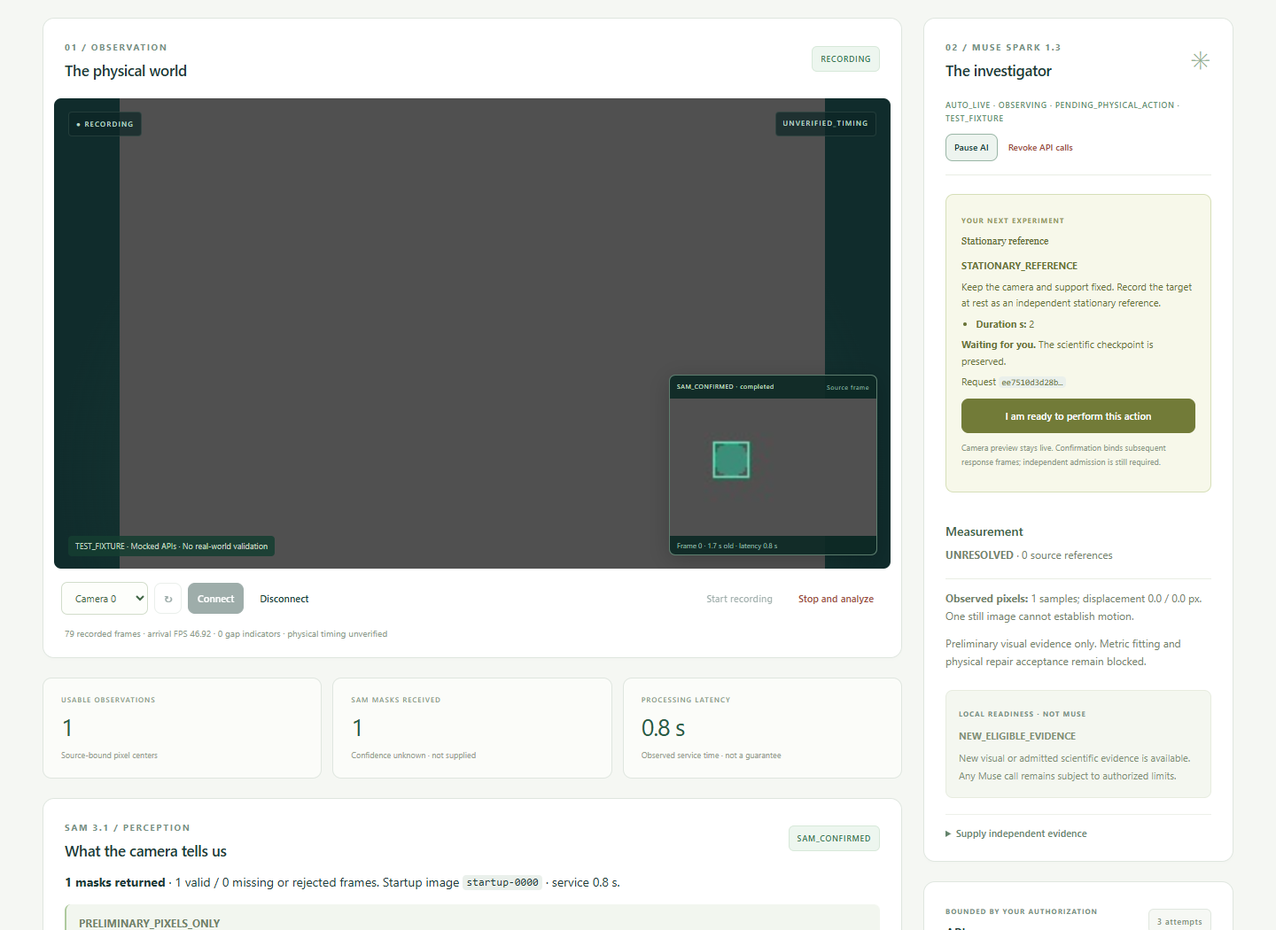
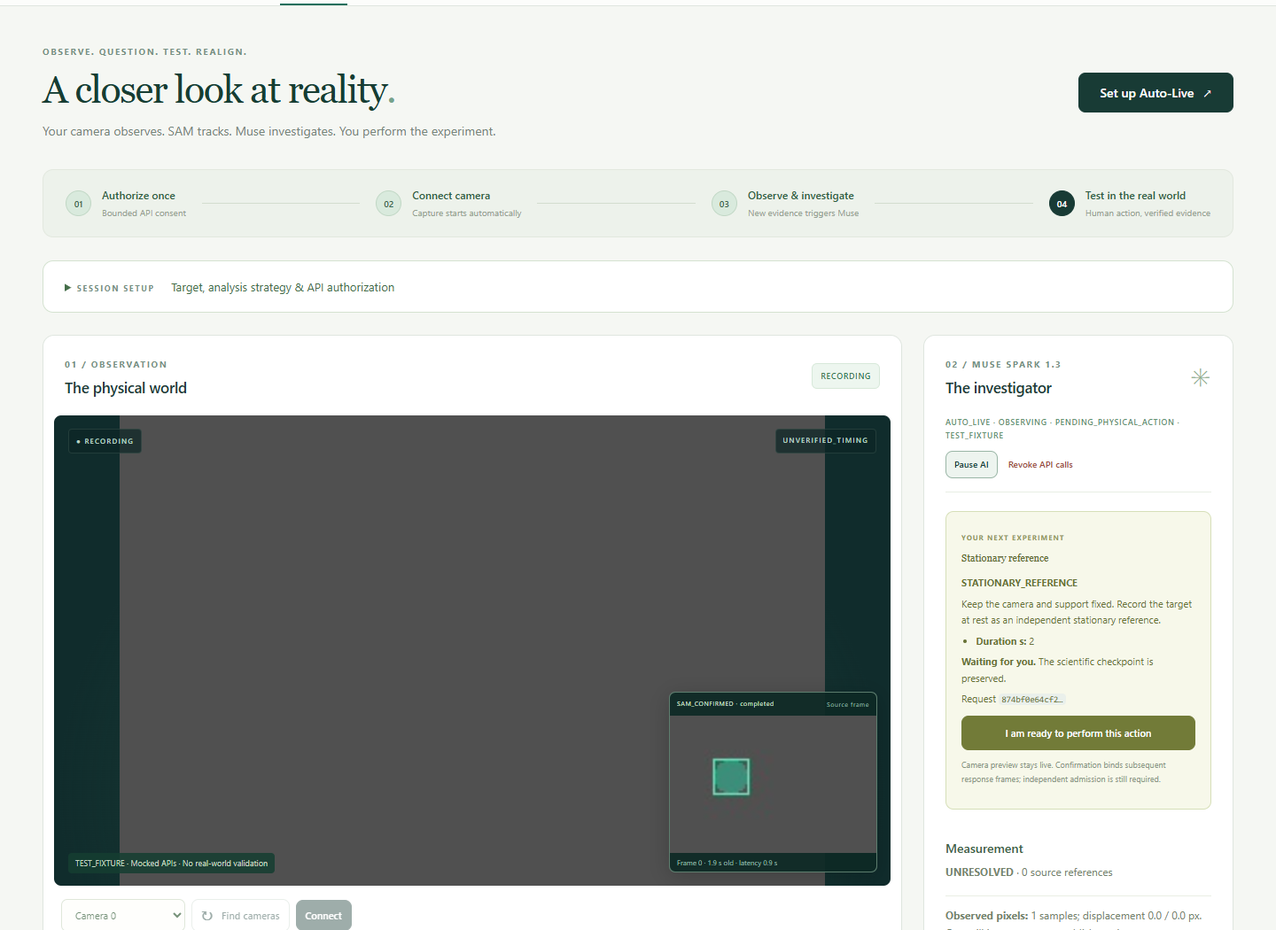
feat: expose camera discovery with search feedback and detected inputs

diff --git a/src/realign/product/static/live_lab.js b/src/realign/product/static/live_lab.js
@@ -5,7 +5,7 @@
   const human=value=>String(value??'Unknown').replaceAll('_',' ').toLowerCase().replace(/^\w/,c=>c.toUpperCase());
   const short=value=>value?String(value).slice(0,12)+'…':'Unavailable';
   const sec=value=>Number.isFinite(value)?value.toFixed(1)+' s':'Unknown';
-  let token=null,busy=false,polling=false,connected=false,previewTimer=null,lastLive=null,lastOverlay=null,lastScience=null,lastHistory=null,lastEvents=null,pendingRequest=null;
+  let token=null,busy=false,polling=false,connected=false,scanning=false,hasScanned=false,previewTimer=null,lastLive=null,lastScan=null,lastOverlay=null,lastScience=null,lastHistory=null,lastEvents=null,pendingRequest=null;
   function error(message){$('error').hidden=!message;md('error',message||'');}
   async function api(path,body){
     const response=await fetch(path,{cache:'no-store',...(body!==undefined?{method:'POST',headers:{'Content-Type':'application/json','X-Live-Lab-Token':token},body:JSON.stringify(body)}:{})});
@@ -24,10 +24,11 @@
       md('camera-state',s.state+(s.error?` · ${s.error}`:'')+(s.camera_stalled?' · CAMERA_STALLED':''));$('camera-state').classList.toggle('live',s.state==='RECORDING');
       const c=s.capture;md('telemetry',`${c.frames.toLocaleString()} recorded frames · arrival FPS ${c.effective_fps?.toFixed(2)??'unknown'} · ${c.gap_indicators} gap indicators · physical timing unverified`);
       md('capture-indicator',s.state==='RECORDING'?'● RECORDING':connected?'● LIVE PREVIEW':'CAMERA OFFLINE');
-      $('start').disabled=!connected||s.state==='RECORDING'||s.camera_stalled;$('stop').disabled=s.state!=='RECORDING';$('connect').disabled=connected;$('scan').disabled=connected;$('disconnect').disabled=!s.camera;$('import').disabled=s.state==='RECORDING';
+      $('start').disabled=!connected||s.state==='RECORDING'||s.camera_stalled;$('stop').disabled=s.state!=='RECORDING';$('connect').disabled=connected||scanning||(hasScanned&&!$('devices').options.length);$('scan').disabled=connected||scanning;$('devices').disabled=connected||scanning||(hasScanned&&!$('devices').options.length);$('disconnect').disabled=!s.camera;$('import').disabled=s.state==='RECORDING';
       $('preview').hidden=!connected;$('preview-empty').hidden=connected;
       if(connected&&!previewTimer)nextPreview();if(!connected&&previewTimer){clearTimeout(previewTimer);previewTimer=null;}
-      renderInvestigation(s.investigation,s.state);
+      lastScan=s.device_scan;renderInvestigation(s.investigation,s.state);
+      if($('raw-audit').parentElement.open)$('raw-audit').textContent=JSON.stringify({investigation:lastLive,camera_discovery:lastScan},null,2);
     }catch(e){error(`Controller unavailable: ${e.message}`);}finally{polling=false;}
   }
   function nextPreview(){if(!connected){previewTimer=null;return;}$('preview').src='/preview.jpg?t='+Date.now();previewTimer=setTimeout(nextPreview,100);}
@@ -71,7 +72,6 @@
     renderScience(sc);renderAction(live.pending_action,active&&!paused);renderHistory(live);
     drawTrajectory(live.historical_trajectory,sc.trajectory_comparison);
     md('audit-label',`Hash-linked · ${short(live.audit_head)}`);
-    if($('raw-audit').parentElement.open)$('raw-audit').textContent=JSON.stringify(live,null,2);
   }
   function renderScience(sc){
     const sig=JSON.stringify([sc.hypotheses,sc.tool_results,sc.decision,sc.state,sc.visual_observation]);if(sig===lastScience)return;lastScience=sig;
@@ -112,7 +112,17 @@
     for(const r of data.recordings){const card=el('article',undefined,'clip');card.append(el('h3',r.id),el('p',`**${r.status}** · ${r.state||'Unavailable'}`));if(!r.media){root.append(card);continue;}const m=r.media;card.append(el('p',`${m.status} · ${m.decoded_frames??'?'} decoded frames · ${m.width??'?'} × ${m.height??'?'} · variable frame rate ${m.variable_frame_rate??'unknown'}`),el('p','SHA-256: '+r.video_sha256,'hash'),el('p',`Source ${r.provenance.kind} · SAM ${r.sam.status} · calibration ${r.calibration_grade} · physical timing unverified`));const frames=el('div',undefined,'frames');for(const file of m.review_frames||[]){const img=el('img');img.src=`/files/${r.id}/${file}`;img.alt='Clean source review: '+file;frames.append(img);}card.append(frames);if(m.status==='ADMITTED'){const video=el('video');video.controls=true;video.preload='none';video.src=`/files/${r.id}/recording.mp4`;video.setAttribute('aria-label','Saved recording '+r.id);card.append(video);}const list=el('ul');for(const b of r.blockers)list.append(el('li',b));card.append(list);for(const [file,label] of [['recording.mp4','Download recording'],['report.json','Source and PTS report'],['phone_manifest.draft.json','Phone manifest draft']]){const a=el('a',label);a.href=`/files/${r.id}/${file}`;a.download=file;card.append(a);}root.append(card);}
   }
   $('open-authorization').onclick=()=>{$('authorization').open=!$('authorization').open;if($('authorization').open)$('authorization').scrollIntoView({behavior:'smooth',block:'start'});};
-  $('scan').onclick=async()=>{const r=await action('/api/scan');if(!r)return;$('devices').replaceChildren();for(const d of r.devices){const o=el('option',`${d.label} · ${d.backend}`);o.value=d.index;$('devices').append(o);}if(!r.devices.length)error('No camera found. Check its connection and Windows permissions, or import the original MP4.');};
+  $('scan').onclick=async()=>{
+    if(busy)return error('A local control is still finishing. Retry Find cameras when it completes.');
+    scanning=true;$('scan').disabled=true;$('connect').disabled=true;$('devices').disabled=true;$('scan').setAttribute('aria-busy','true');md('scan-label','Searching…');
+    md('camera-discovery','Searching camera inputs 0–7. This may take a few seconds; no video is uploaded.');
+    try{
+      const r=await action('/api/scan',{maximum:8});if(!r){md('camera-discovery','Camera search could not complete. Review the local error above, then try Find cameras again.');return;}
+      hasScanned=true;$('devices').replaceChildren();
+      for(const d of r.devices){const o=el('option',`Camera ${d.index} · ${d.backend}`);o.value=d.index;$('devices').append(o);}
+      md('camera-discovery',r.devices.length?`**${r.devices.length} camera${r.devices.length===1?'':'s'} found.** Select a device, then Connect to identify your phone in the preview. ${r.scan?.probe_errors?.length?'Some inputs could not be probed; their safe codes are in the audit.':''}`:'**No cameras found on inputs 0–7.** Check Windows camera permissions, connect your phone through its webcam app/USB, close other apps using it, then try Find cameras again. You can also import the original MP4.');
+    }finally{scanning=false;$('scan').removeAttribute('aria-busy');md('scan-label','Find cameras');await status();}
+  };
   $('connect').onclick=()=>action('/api/connect',{index:Number($('devices').value)});$('disconnect').onclick=()=>action('/api/disconnect');$('start').onclick=()=>action('/api/start',metadata());$('stop').onclick=()=>action('/api/stop');$('import').onclick=()=>action('/api/import',{...metadata(),path:$('path').value});
   $('ai-start').onclick=async()=>{
     const r=await action('/api/auto-live/authorize',{authorization:{consent:$('ai-consent').checked,standard_tier_confirmed:$('ai-consent').checked,sam_requests:Number($('sam-cap').value),muse_requests:Number($('muse-cap').value),ceiling_usd:$('spend-cap').value,sam_reserve_usd:$('sam-reserve').value,muse_reserve_usd:$('muse-reserve').value},windowing:{window_s:Number($('window-seconds').value),overlap_s:Number($('overlap-seconds').value),analysis_interval_s:Number($('analysis-interval').value),processing_width:Number($('processing-width').value),target_prompt:$('target-prompt').value,target_confirmed:$('target-confirmed').checked},metadata:{operator:$('operator').value,rig_id:$('rig').value}});
@@ -121,7 +131,7 @@
   $('ai-stop').onclick=()=>priority('/api/ai/stop');$('ai-pause').onclick=()=>priority('/api/ai/pause');$('ai-resume').onclick=()=>priority('/api/ai/resume');
   $('reselect-target').onclick=async()=>{const consent=$('revision-consent').checked;const r=await action('/api/ai/reselect',{target_prompt:$('revised-prompt').value,target_confirmed:consent,consent});if(r)$('revision-consent').checked=false;};
   $('confirm-action').onclick=()=>action('/api/ai/confirm-action',{request_id:pendingRequest});$('admit-evidence').onclick=()=>action('/api/ai/admit',{manifest:$('approved-manifest').value});$('refresh').onclick=()=>recordings().catch(e=>error(e.message));
-  $('raw-audit').parentElement.addEventListener('toggle',()=>{if($('raw-audit').parentElement.open&&lastLive)$('raw-audit').textContent=JSON.stringify(lastLive,null,2);});
+  $('raw-audit').parentElement.addEventListener('toggle',()=>{if($('raw-audit').parentElement.open)$('raw-audit').textContent=JSON.stringify({investigation:lastLive,camera_discovery:lastScan},null,2);});
   $('sam-overlay').onerror=()=>{lastOverlay=null;};
   status();recordings().catch(e=>error(e.message));setInterval(status,600);
 })();

diff --git a/src/realign/product/static/live_lab.html b/src/realign/product/static/live_lab.html
@@ -12,7 +12,7 @@
 <div><div class="field-grid"><label>SAM attempt cap<input id="sam-cap" type="number" min="1" max="32" value="8"></label><label>Muse attempt cap<input id="muse-cap" type="number" min="1" max="32" value="8"></label><label>Estimated ceiling · USD<input id="spend-cap" type="number" min="0.01" max="100" step="0.01" placeholder="Set your limit"></label><label>Reserve / SAM attempt · USD<input id="sam-reserve" type="number" min="0.001" max="100" step="0.001" placeholder="Owner-reviewed estimate"></label><label>Reserve / Muse attempt · USD<input id="muse-reserve" type="number" min="0.001" max="100" step="0.001" placeholder="Owner-reviewed estimate"></label></div><p class="fine">Uploads, segmentation, reasoning and retries each consume a reserved attempt. Owner-supplied reserves are estimates, not verified Meta prices. Actual billing is unknown; in-flight calls may bill after revocation. Keys remain on the backend.</p><label class="check"><input id="ai-consent" type="checkbox">I authorize these uploads and limits, and confirm my Meta account uses the Standard tier.</label><button id="ai-start" class="primary">Authorize Auto-Live</button></div></div></div></details>
 <div id="workspace" class="workspace" tabindex="-1"><div class="observation-column"><section class="panel camera-panel"><div class="panel-head"><div><span class="section-kicker">01 / OBSERVATION</span><h2>The physical world</h2></div><span id="camera-state" class="pill" role="status">IDLE</span></div>
 <div id="camera-stage" class="camera-stage"><div id="preview-empty" class="preview-empty"><svg viewBox="0 0 240 150" fill="none" aria-hidden="true"><path d="M40 25h160M120 25v80" stroke="currentColor" stroke-width="1.5"/><path d="M120 25 165 95" stroke="#6daf9c" stroke-width="2"/><path d="M75 95a82 82 0 0 0 90 0" stroke="currentColor" stroke-dasharray="3 5"/><circle cx="165" cy="95" r="12" fill="#6daf9c"/><circle cx="120" cy="25" r="3" fill="currentColor"/></svg><h3>Every investigation starts with an observation.</h3><p>Authorize Auto-Live, then connect your camera.<br>Offline preview and manual recording are also available.</p></div><img id="preview" alt="Current camera preview" hidden><div class="stage-top"><span id="capture-indicator" class="stage-badge">CAMERA OFFLINE</span><span class="stage-badge">UNVERIFIED_TIMING</span></div><span id="fixture-label" class="fixture-label" hidden>TEST_FIXTURE · Mocked APIs · No real-world validation</span><div id="sam-preview" class="sam-preview" hidden><div class="sam-preview-header"><span id="tracking-label">SAM_PENDING</span><span>Source frame</span></div><img id="sam-overlay" alt="SAM mask and bounding box on its exact, delayed source frame"><p id="overlay-age"></p></div></div>
-<div class="camera-controls"><div class="device-controls"><select id="devices" aria-label="Camera device"><option value="0">Camera 0</option></select><button id="scan" class="icon-button" aria-label="Find cameras" title="Find cameras">↻</button><button id="connect" class="primary">Connect</button><button id="disconnect" class="quiet" disabled>Disconnect</button></div><div class="capture-controls"><button id="start" class="quiet" disabled>Start recording</button><button id="stop" class="quiet danger" disabled>Stop and analyze</button></div></div><p id="telemetry" class="camera-telemetry">No camera connected · No requests dispatched</p></section>
+<div class="camera-controls"><div class="device-controls"><select id="devices" aria-label="Camera device"><option value="0">Camera 0</option></select><button id="scan" class="find-cameras" title="Search available camera inputs"><span aria-hidden="true">↻</span><span id="scan-label">Find cameras</span></button><button id="connect" class="primary">Connect</button><button id="disconnect" class="quiet" disabled>Disconnect</button></div><div class="capture-controls"><button id="start" class="quiet" disabled>Start recording</button><button id="stop" class="quiet danger" disabled>Stop and analyze</button></div></div><p id="camera-discovery" class="camera-discovery" role="status">Use Find cameras to search available inputs, then identify your phone in the preview.</p><p id="telemetry" class="camera-telemetry">No camera connected · No requests dispatched</p></section>
 <div class="metric-row"><div class="metric"><span>USABLE OBSERVATIONS</span><strong id="metric-points">—</strong><small>Source-bound pixel centers</small></div><div class="metric"><span>SAM MASKS RECEIVED</span><strong id="metric-masks">—</strong><small id="metric-confidence">Confidence unknown</small></div><div class="metric"><span>PROCESSING LATENCY</span><strong id="metric-lag">—</strong><small>Observed service time · not a guarantee</small></div></div>
 <section class="panel perception-panel"><div class="panel-head"><div><span class="section-kicker">SAM 3.1 / PERCEPTION</span><h2>What the camera tells us</h2></div><span id="sam-status" class="pill">SAM_PENDING</span></div><div class="panel-body"><p id="ai-detection">SAM NOT_RUN · Waiting for authorization and a source frame.</p><p id="detection-guidance" class="guidance">Masks are measurements of pixels. Physical conclusions need independently verified evidence.</p><p id="target-identity" class="fine"></p><div id="target-revision" hidden><label>Revised target description<input id="revised-prompt" maxlength="80"></label><label class="check"><input id="revision-consent" type="checkbox">I confirm the revised target and authorize additional requests within this session's remaining limits.</label><button id="reselect-target">Authorize revised target</button></div><details class="inline-details"><summary>Processing strategy & QA details</summary><p id="preprocessing-status"></p><p id="ai-queues"></p><p id="processed-label"></p><img id="processed" alt="Latest completed SAM source frame" hidden></details></div></section>
 <section class="panel trajectory-panel"><div class="panel-head"><div><span class="section-kicker">EXPLORATION / PIXELS</span><h2>Follow the evidence</h2></div><span class="legend"><i></i> SAM observations</span></div><div class="chart-wrap"><canvas id="trajectory" width="640" height="300" aria-label="Historical preliminary SAM pixel trajectory"></canvas><p id="trajectory-empty">Source-bound points will appear after valid SAM masks arrive.</p></div><p id="simulation-status" class="panel-note">Model comparison awaits independent timing, geometry and physical admission.</p></section></div>

diff --git a/src/realign/product/static/live_lab.css b/src/realign/product/static/live_lab.css
@@ -4,3 +4,5 @@
 @media(prefers-reduced-motion:reduce){*{scroll-behavior:auto!important;transition:none!important}}
 
 .fixture-label{position:absolute;bottom:14px;left:16px;max-width:50%;font-size:9px;line-height:1.5;color:#c2d6c0;background:#153d31dd;padding:5px 8px;border-radius:4px;pointer-events:none}
+
+.device-controls{flex-wrap:wrap;min-width:0}.camera-discovery{font-size:11px;line-height:1.7;color:#70856d;margin:8px 24px 0}.find-cameras{white-space:nowrap}.find-cameras>span:first-child{font-size:15px}.find-cameras[aria-busy=true]>span:first-child{animation:camera-search 1.2s linear infinite}@keyframes camera-search{to{transform:rotate(360deg)}}@media(max-width:580px){.camera-discovery{font-size:10px;margin-left:17px;margin-right:17px}.device-controls{flex-basis:100%}.camera-controls .find-cameras{font-size:10px}}@media(prefers-reduced-motion:reduce){.find-cameras[aria-busy=true]>span:first-child{animation:none}}

diff --git a/src/realign/physical/live_lab.py b/src/realign/physical/live_lab.py
@@ -243,6 +243,7 @@ class CaptureController:
         self.auto_capture = False
         self.auto_clips = 0
         self.auto_metadata = {}
+        self.device_scan = None
 
     def move(self, state):
         self.state = state
@@ -255,6 +256,7 @@ class CaptureController:
                     'error': self.error, 'latest': deepcopy(self.latest),
                     'capture': interval_summary(self.arrivals), 'preview_age_s': age,
                     'camera_stalled': self.camera is not None and age is not None and age > 3,
+                    'device_scan':deepcopy(self.device_scan),
                     'capture_time_scale_verified': False,
                     'new_meta_calls': self.live.ledger.snapshot()['total_requests'] if self.live else 0,
                     'investigation': self.live.snapshot() if self.live else None}
@@ -287,18 +289,27 @@ class CaptureController:
             self.live = (self.live_factory or LiveInvestigation)(self.library.root, policy, config=settings)
             return self.live.snapshot()
 
-    def enumerate_devices(self, maximum=6):
-        if not 1 <= maximum <= 16: raise ValueError('device scan limit must be 1..16')
+    def enumerate_devices(self, maximum=8):
+        if type(maximum) is not int or not 1 <= maximum <= 16: raise ValueError('device scan limit must be 1..16')
         with self.lock:
             if self.camera is not None: raise ValueError('Disconnect before scanning camera devices')
-            devices = []
+            devices,errors = [],[]
             for index in range(maximum):
-                camera = self.camera_factory(index, self.cv.CAP_DSHOW if os.name == 'nt' else self.cv.CAP_ANY)
+                camera = None
                 try:
+                    camera = self.camera_factory(index, self.cv.CAP_DSHOW if os.name == 'nt' else self.cv.CAP_ANY)
                     if camera.isOpened():
                         devices.append({'index': index, 'backend': camera.getBackendName(),
                                         'label': f'Camera {index} (operator must identify phone)'})
-                finally: camera.release()
+                except Exception as exc:
+                    errors.append({'index':index,'code':'DEVICE_PROBE_FAILED','error_type':type(exc).__name__})
+                finally:
+                    if camera is not None:
+                        try: camera.release()
+                        except Exception: errors.append({'index':index,'code':'DEVICE_RELEASE_FAILED'})
+            self.device_scan = {'status':'COMPLETED','checked_indices':list(range(maximum)),
+                'detected_count':len(devices),'devices':deepcopy(devices),'probe_errors':errors,
+                'identity':'OPERATOR_MUST_IDENTIFY_PHONE_IN_PREVIEW','new_meta_requests':0}
             return devices
 
     def connect(self, index, *, threaded=True):

diff --git a/tests/test_live_lab_browser.py b/tests/test_live_lab_browser.py
@@ -325,3 +325,33 @@ $$\theta(t) = \sin(t)$$
         assert page.evaluate('document.documentElement.scrollWidth<=innerWidth')
         assert not errors
         page.close()
+
+
+def test_find_cameras_shows_search_results_and_no_device_guidance(lab_ui):
+    from playwright.sync_api import expect
+    browser,controller,urls,tmp=lab_ui
+    available={2,5}
+    class Probe(InjectedCamera):
+        def __init__(self,index):self.index=index
+        def isOpened(self):return self.index in available
+    controller.camera_factory=lambda index,*args:Probe(index)
+    original=controller.enumerate_devices
+    def slower(maximum=8):time.sleep(.3);return original(maximum)
+    controller.enumerate_devices=slower
+    page=browser.new_page(viewport={'width':390,'height':844});page.goto(urls[0])
+    button=page.get_by_role('button',name='Find cameras',exact=True)
+    expect(button).to_be_visible();button.click()
+    expect(page.locator('#camera-discovery')).to_contain_text('Searching camera inputs')
+    expect(page.locator('#camera-discovery')).to_contain_text('2 cameras found')
+    assert page.locator('#devices option').all_text_contents()==['Camera 2 · INJECTED_BROWSER_FIXTURE','Camera 5 · INJECTED_BROWSER_FIXTURE']
+    page.locator('#connect').click()
+    expect(page.locator('#camera-state')).to_have_text('CAMERA_CONNECTED')
+    assert controller.device['index']==2
+    expect(button).to_be_disabled()
+    page.locator('#disconnect').click();available.clear()
+    button.click();expect(page.locator('#camera-discovery')).to_contain_text('No cameras found')
+    expect(page.locator('#camera-discovery')).to_contain_text('Windows camera permissions')
+    expect(page.locator('#connect')).to_be_disabled()
+    assert controller.live is None and controller.snapshot()['new_meta_calls']==0
+    assert page.evaluate('document.documentElement.scrollWidth<=innerWidth')
+    page.close()

diff --git a/tests/test_auto_live.py b/tests/test_auto_live.py
@@ -19,6 +19,13 @@ from realign.synth.video_fixture import fixture_events, protocol_line
 from test_live_investigation import POLICY, MockMeta, MockStream, ScriptedAdapter, frames, until
 
 
+def feed_fixture_windows(live,count,*,start=0):
+    """Wait for the local encoder, never for SAM. Avoid timing-based test drops."""
+    for i in range(start,start+count):
+        frames(live,1,start=i,pause=0)
+        until(live.frames.empty)
+
+
 class AutoMeta(MockMeta):
     def __init__(self, *, empty=False, partial_hold=False, fail_terminal=False):
         super().__init__()
@@ -127,7 +134,7 @@ def test_partial_stream_is_visible_but_never_scientific_evidence(auto_factory,tm
     assert live.overlay_jpeg and not live.trajectory and live.latest is None
     assert live.ledger.snapshot()['attempted_requests']['muse']==0
     # Capture and window encoding continue while the SAM terminal event is held.
-    frames(live,30,start=2,pause=.03)
+    feed_fixture_windows(live,30,start=2)
     until(lambda:live.finalized>=2)
     assert live.frames.qsize()<=settings.frame_queue
     transport.partial_hold.clear()
@@ -153,7 +160,7 @@ def test_zero_target_blocks_more_paid_requests_until_explicit_revised_target_con
     live=factory(tmp_path,POLICY,config=settings)
     frames(live,2)
     until(lambda:live.target_blocked)
-    frames(live,45,start=2,pause=.03)
+    feed_fixture_windows(live,45,start=2)
     until(lambda:live.finalized>=3)
     assert live.latest['identity_continuity']=='NO_OBSERVATIONS'
     assert live.latest['diagnostic']['code']=='SAM_NO_MASKS'

diff --git a/tests/test_live_lab.py b/tests/test_live_lab.py
@@ -20,6 +20,29 @@ class Camera:
     def getBackendName(self): return 'INJECTED_TEST_CAMERA'
 
 
+def test_device_scan_finds_nonzero_indices_releases_probes_and_keeps_safe_errors(tmp_path):
+    released=[]
+    class Probe:
+        def __init__(self,index):self.index=index
+        def isOpened(self):return self.index in (2,5)
+        def getBackendName(self):return 'TEST_FIXTURE_DRIVER'
+        def release(self):released.append(self.index)
+    def factory(index,*args):
+        if index==1:raise RuntimeError('SENSITIVE_TEST_FIXTURE_DRIVER_DETAILS')
+        return Probe(index)
+    controller=CaptureController(LabLibrary(tmp_path),camera_factory=factory)
+    devices=controller.enumerate_devices()
+    assert [d['index'] for d in devices]==[2,5]
+    assert released==[0,2,3,4,5,6,7]
+    scan=controller.snapshot()['device_scan']
+    assert scan['checked_indices']==list(range(8)) and scan['new_meta_requests']==0
+    assert scan['probe_errors']==[{'index':1,'code':'DEVICE_PROBE_FAILED','error_type':'RuntimeError'}]
+    assert 'SENSITIVE' not in json.dumps(scan)
+    assert controller.camera is None and controller.live is None
+    for value in (True,0,17,'8'):
+        with pytest.raises(ValueError):controller.enumerate_devices(value)
+
+
 def test_interval_metrics_never_claim_known_drops():
     report = interval_summary([0, 33_000_000, 66_000_000, 170_000_000])
     assert report['gap_indicators'] == 1

diff --git a/tests/test_live_lab_integration.py b/tests/test_live_lab_integration.py
@@ -47,6 +47,24 @@ def test_controls_require_same_origin_and_unpredictable_token(lab_http):
     assert request(url, '/files/../../.env')[0] == 404
 
 
+def test_camera_discovery_endpoint_is_authorized_local_only_and_reports_detected_inputs(lab_http):
+    controller,url=lab_http
+    probes=[]
+    class Probe:
+        def __init__(self,index):self.index=index
+        def isOpened(self):return self.index in (2,5)
+        def getBackendName(self):return 'INJECTED_TEST_CAMERA'
+        def release(self):probes.append(self.index)
+    controller.camera_factory=lambda index,*args:Probe(index)
+    assert request(url,'/api/scan',{'maximum':8})[0]==403
+    assert probes==[]
+    token=request(url,'/api/status')[1]['control_token']
+    code,result=request(url,'/api/scan',{'maximum':8},{'X-Live-Lab-Token':token})
+    assert code==200 and [d['index'] for d in result['devices']]==[2,5]
+    assert probes==list(range(8)) and result['scan']['new_meta_requests']==0
+    assert controller.camera is None and controller.writer is None and controller.live is None
+
+
 def test_import_endpoint_and_read_only_projection_share_blockers(lab_http, tmp_path):
     controller, url = lab_http
     source = tmp_path / 'WhatsApp-pilot.mp4'; source.write_bytes(b'invalid pilot')

diff --git a/src/realign/physical/lab_server.py b/src/realign/physical/lab_server.py
@@ -103,7 +103,9 @@ def make_lab_server(controller, *, port=8770):
             if not actions.acquire(blocking=False): return self.send({'error': 'CONTROLLER_BUSY'}, status=409)
             try:
                 path = urlsplit(self.path).path
-                if path == '/api/scan': result = {'devices': controller.enumerate_devices()}
+                if path == '/api/scan':
+                    devices = controller.enumerate_devices(body.get('maximum',8))
+                    result = {'devices':devices,'scan':controller.device_scan}
                 elif path == '/api/connect': controller.connect(body.get('index')); result = controller.snapshot()
                 elif path == '/api/disconnect': controller.close(); result = controller.snapshot()
                 elif path in ('/api/start', '/api/import'):

diff --git a/docs/TASK09_2_AUTO_LIVE.md b/docs/TASK09_2_AUTO_LIVE.md
@@ -28,7 +28,13 @@ port; refreshing static files alone cannot load new backend code.
    confirm it, review the window strategy, and set SAM/Muse attempt caps, an
    estimated USD ceiling and owner-reviewed per-attempt reserves. Confirm upload
    consent and Standard tier. Select **Authorize Auto-Live** once.
-2. Identify the phone's Windows camera device and select **Connect**. Capture
+2. Select **Find cameras** to scan camera inputs 0–7. The labeled button shows
+   search progress, populates the device selector with detected indices/backends,
+   and reports permission/connection guidance if none are found. Scanning opens
+   and releases local probes; it never uploads video, starts capture or spends
+   API authorization. The backend accepts a bounded `maximum` up to 16 for an
+   extended scan. A driver-open result does not identify the phone: select
+   **Connect** and verify the preview. Capture
    starts automatically. The first recorded, source-mapped frame is saved as a
    PNG and sent to SAM immediately, without waiting for an MP4 window. There is
    no second Start AI or Approve Investigation Event button.
